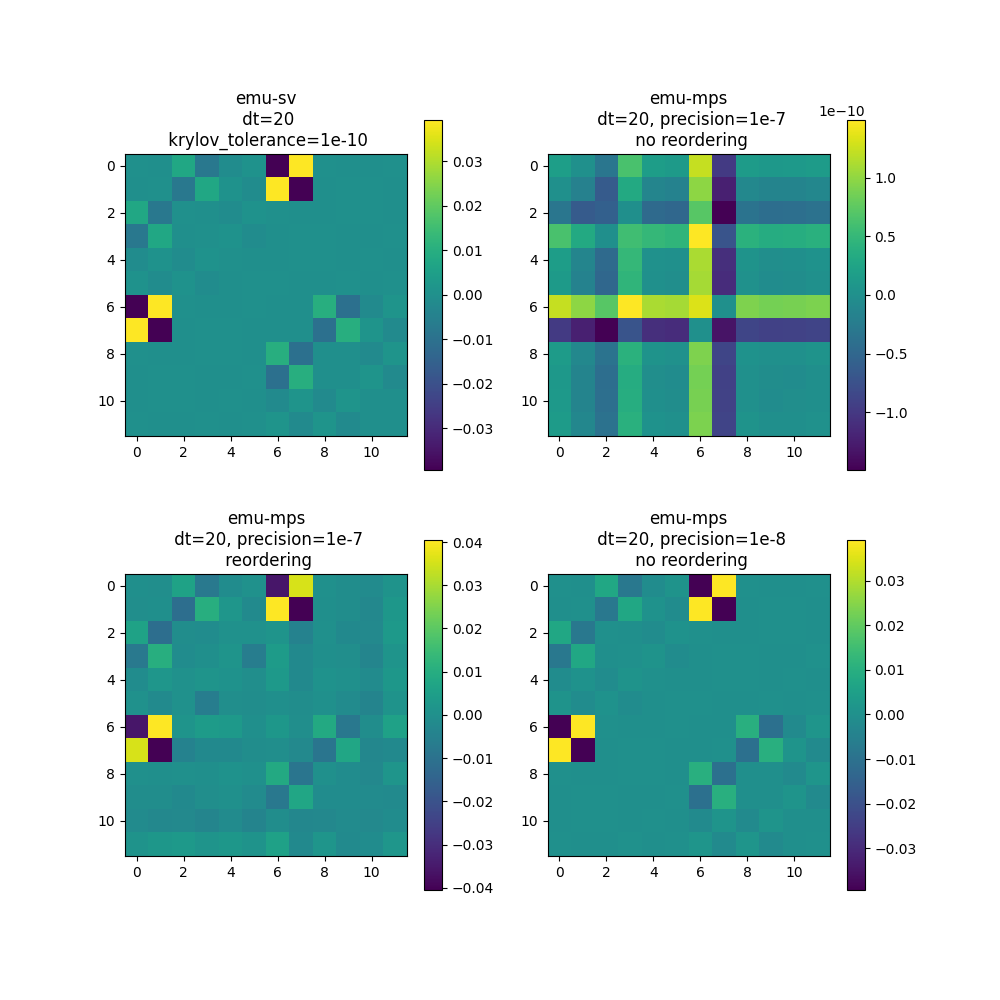
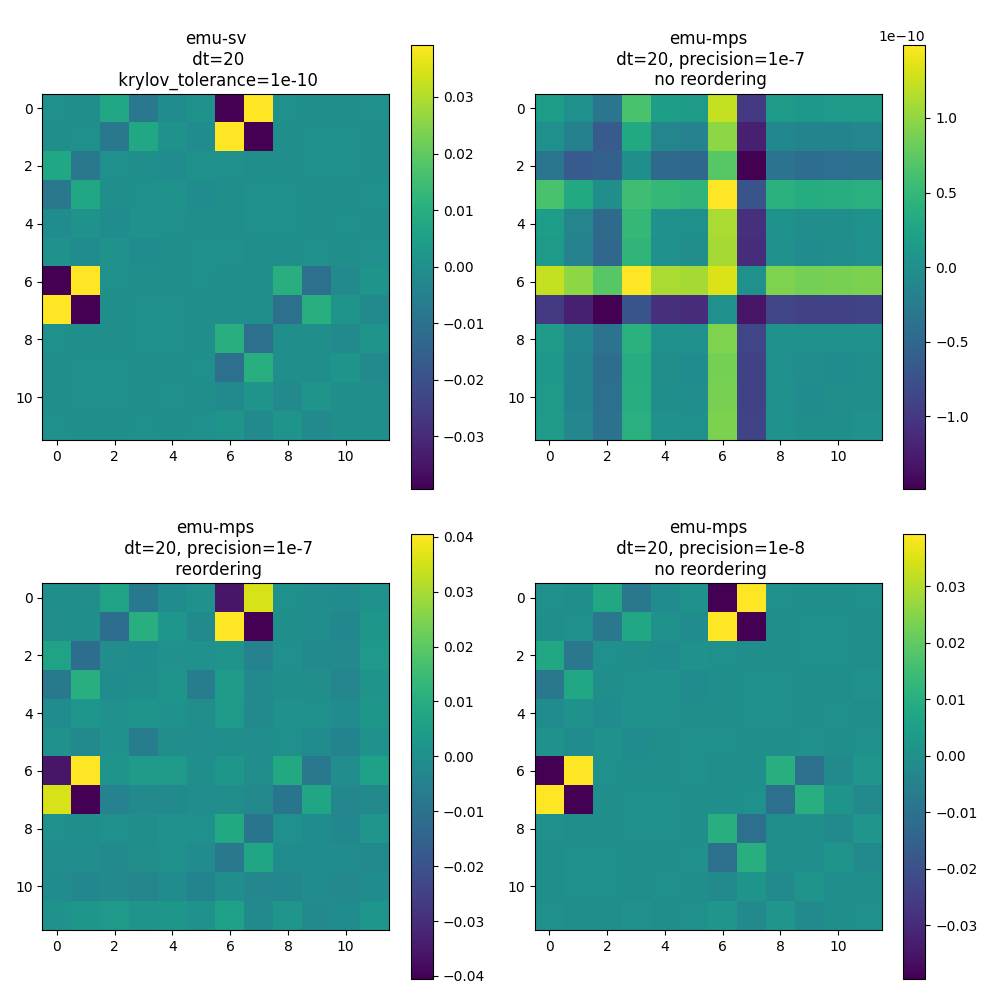
code reviews

diff --git a/docs/emu_mps/benchmarks/accuracy.md b/docs/emu_mps/benchmarks/accuracy.md
@@ -25,7 +25,7 @@ The errors incurred by emu-mps can be contrasted with Pulser, which uses a gener
 
 ## effect of qubit ordering
 
-As part of the performance benchmarks, we show the impact qubit ordering can have on [performance](performance.md#qubit-shuffling). It can also have an impact on the accuracy, as we will demonstrate here. For the purposes of the demonstration, we use a custom 12-qubit pulse as follows:
+On the performance benchmarks page, we show how a good qubit ordering can improve [performance](performance.md#qubit-shuffling). Here we will show that a good qubit ordering also improves the accuracy of emu-mps significantly. For the purposes of the demonstration, we use a custom 12-qubit pulse as follows:
 
 ```python
 mock_device = AnalogDevice
@@ -65,10 +65,10 @@ The register spacing is immaterial, because we run the sequence twice with a cus
 
  `[(6, 7), (8, 9), (10, 11), (7, 1), (7, 3), (9, 1), (9, 5), (11, 3), (11, 5), (6, 0), (6, 2), (8, 0), (8, 4), (10, 2), (10, 4)]`
 
- respectively. As can be seen only two of the interaction terms are different, causing the correlation matrices to be extremely similar, requiring good accuracy for the simulation. The results are as follows:
+ respectively. As can be seen only two of the interaction terms are different `(6,1) -> (6,0)` and `(7,0) -> (7,1)`, causing the correlation matrices to be extremely similar, requiring good accuracy for the simulation. Furthermore, since the two differing terms are "long range", these form a good stress test for emu-mps, which uses an effective description of such long-range terms. The results are as follows:
 
 <div style="text-align:center;">
 <img src="../benchmark_plots/sv_optimatrix_fidelity.png"  width="90%">
 </div>
 
-Emu-sv is used as a source of truth. It can be seen that for a precision of `1e-7` emu-mps is not able to capture the correlation structure in the graph at all without reordering. In fact, the bond dimension stays at `2` even for larger `dt`, meaning truncations destroy all the correlation structure in the state. This happens because for MPS based methods, interactions between qubits that are far away in index space, such as `(11,3)` from above are difficult to capture correctly. Notice that qubit reordering alleviates this problem, and although agreement with emu-sv is not exact, the fundamental structure of the problem is visible. The same is true for a precision `1e-6` but the errors in emu-mps will be somewhat larger. Setting the precision to `1e-8` causes emu-mps to capture the long-range correlations more accurately, even without qubit reordering. It should be noted that in this case, qubit reordering still has positive effects. Firstly, the bond dimension required to accurately describe the quantum state will be lower, decreasing the runtime. Secondly, the results with qubit ordering are much more stable than those without. For example, when when running the simulation without qubit ordering the results are hardware dependent: there is a noise of a similar magnitude as for precision `1e-7` without reordering, which just happens to be negligible on the AMD EPYC 7742 where this graph was generated. This problem vanishes when qubit reordering is used, and demonstrates the fundamental instability of TDVP in the presence of long-range interactions.
+Emu-sv is used as a source of truth. The most salient feature is that the shown difference is largest on the  `(6,1)`, `(6,0)`, `(7,0)` and `(7,1)` terms which are precisely the terms in the interaction matrix that have been changed. The checkerboard pattern is explained because while one interaction term is added, the other is removed, causing opposite signs in the difference. Then, to subleading order, you can see repeats of this effect as the changed interaction matrix causes further differences in the correlation structure. It can be seen that for a precision of `1e-7` emu-mps is not able to capture the differences in correlation at all without reordering: the difference between the two correlation matrices is essentially zero (see top right in the figure). As explained above, terms in the interaction matrix far from the diagonal are difficult to capture for emu-mps. Notice that qubit reordering alleviates this problem, and although agreement with emu-sv is not exact, the fundamental structure of the problem is visible. The same is true for a precision `1e-6` but the errors in emu-mps will be somewhat larger. Setting the precision to `1e-8` causes emu-mps to capture the long-range correlations more accurately, even without qubit reordering. It should be noted that in this case, qubit reordering still has positive effects. Firstly, the bond dimension required to accurately describe the quantum state will be lower, decreasing the runtime. Secondly, the results with qubit ordering are much more stable than those without. For example, when running the simulation without qubit ordering the results are hardware dependent: there is a noise of a similar magnitude as for precision `1e-7` without reordering, which just happens to be negligible on the AMD EPYC 7742 where this graph was generated. This problem vanishes when qubit reordering is used, and demonstrates the fundamental instability of TDVP in the presence of long-range interactions.
